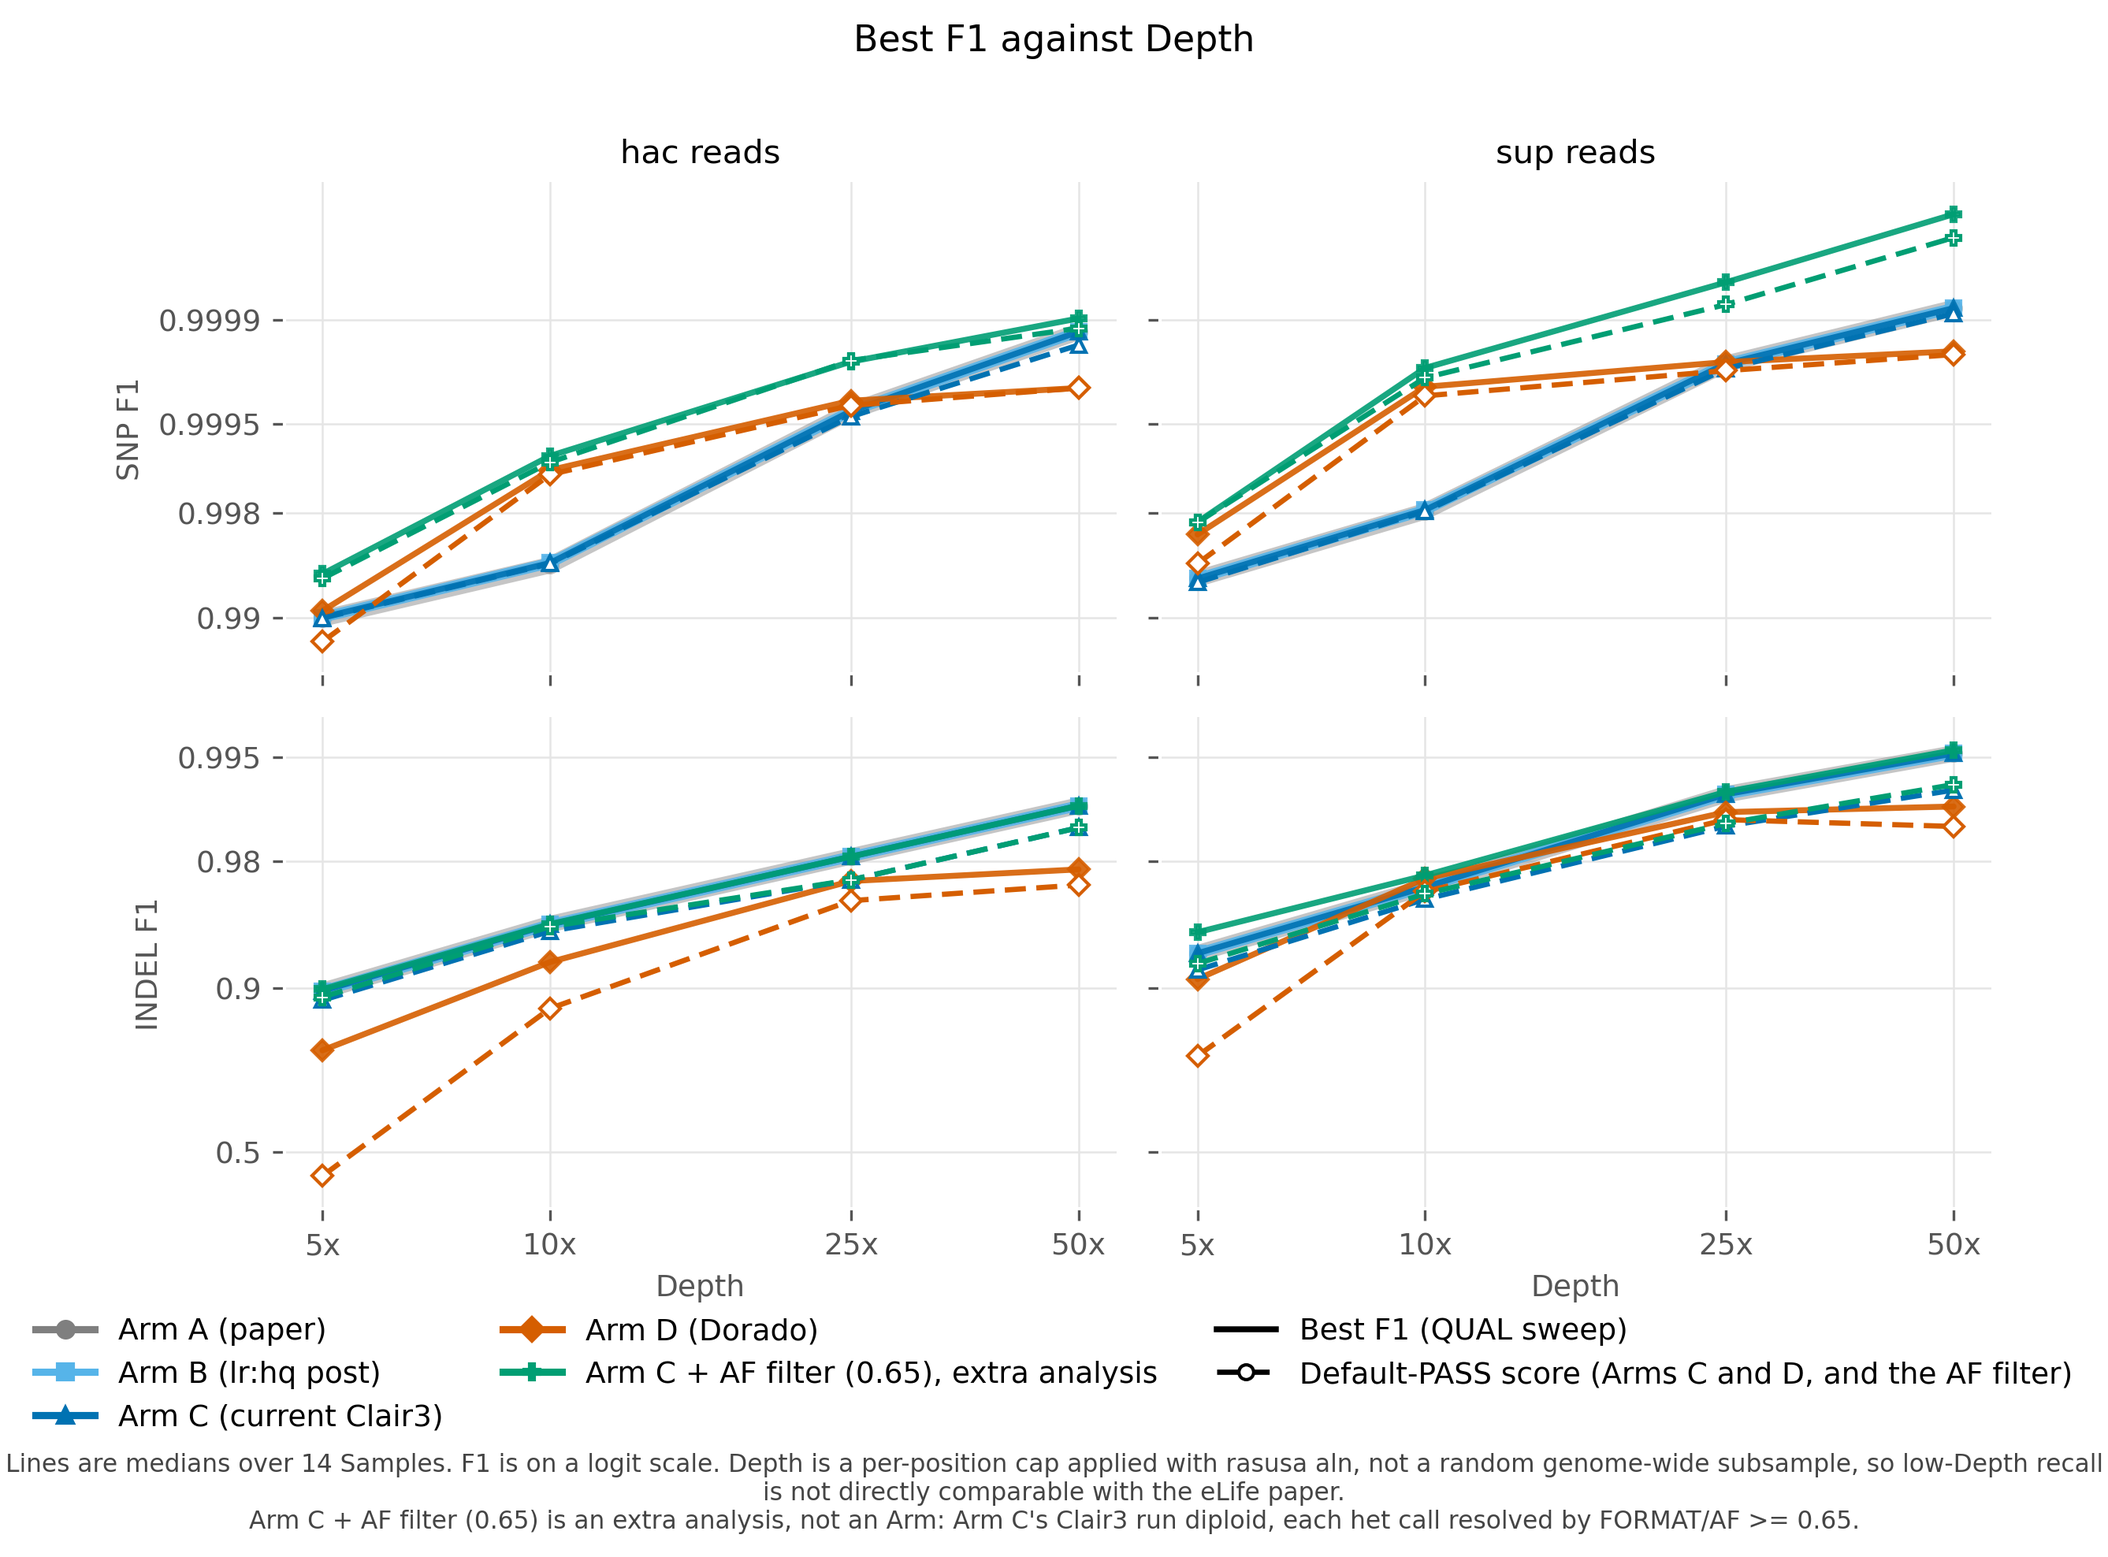
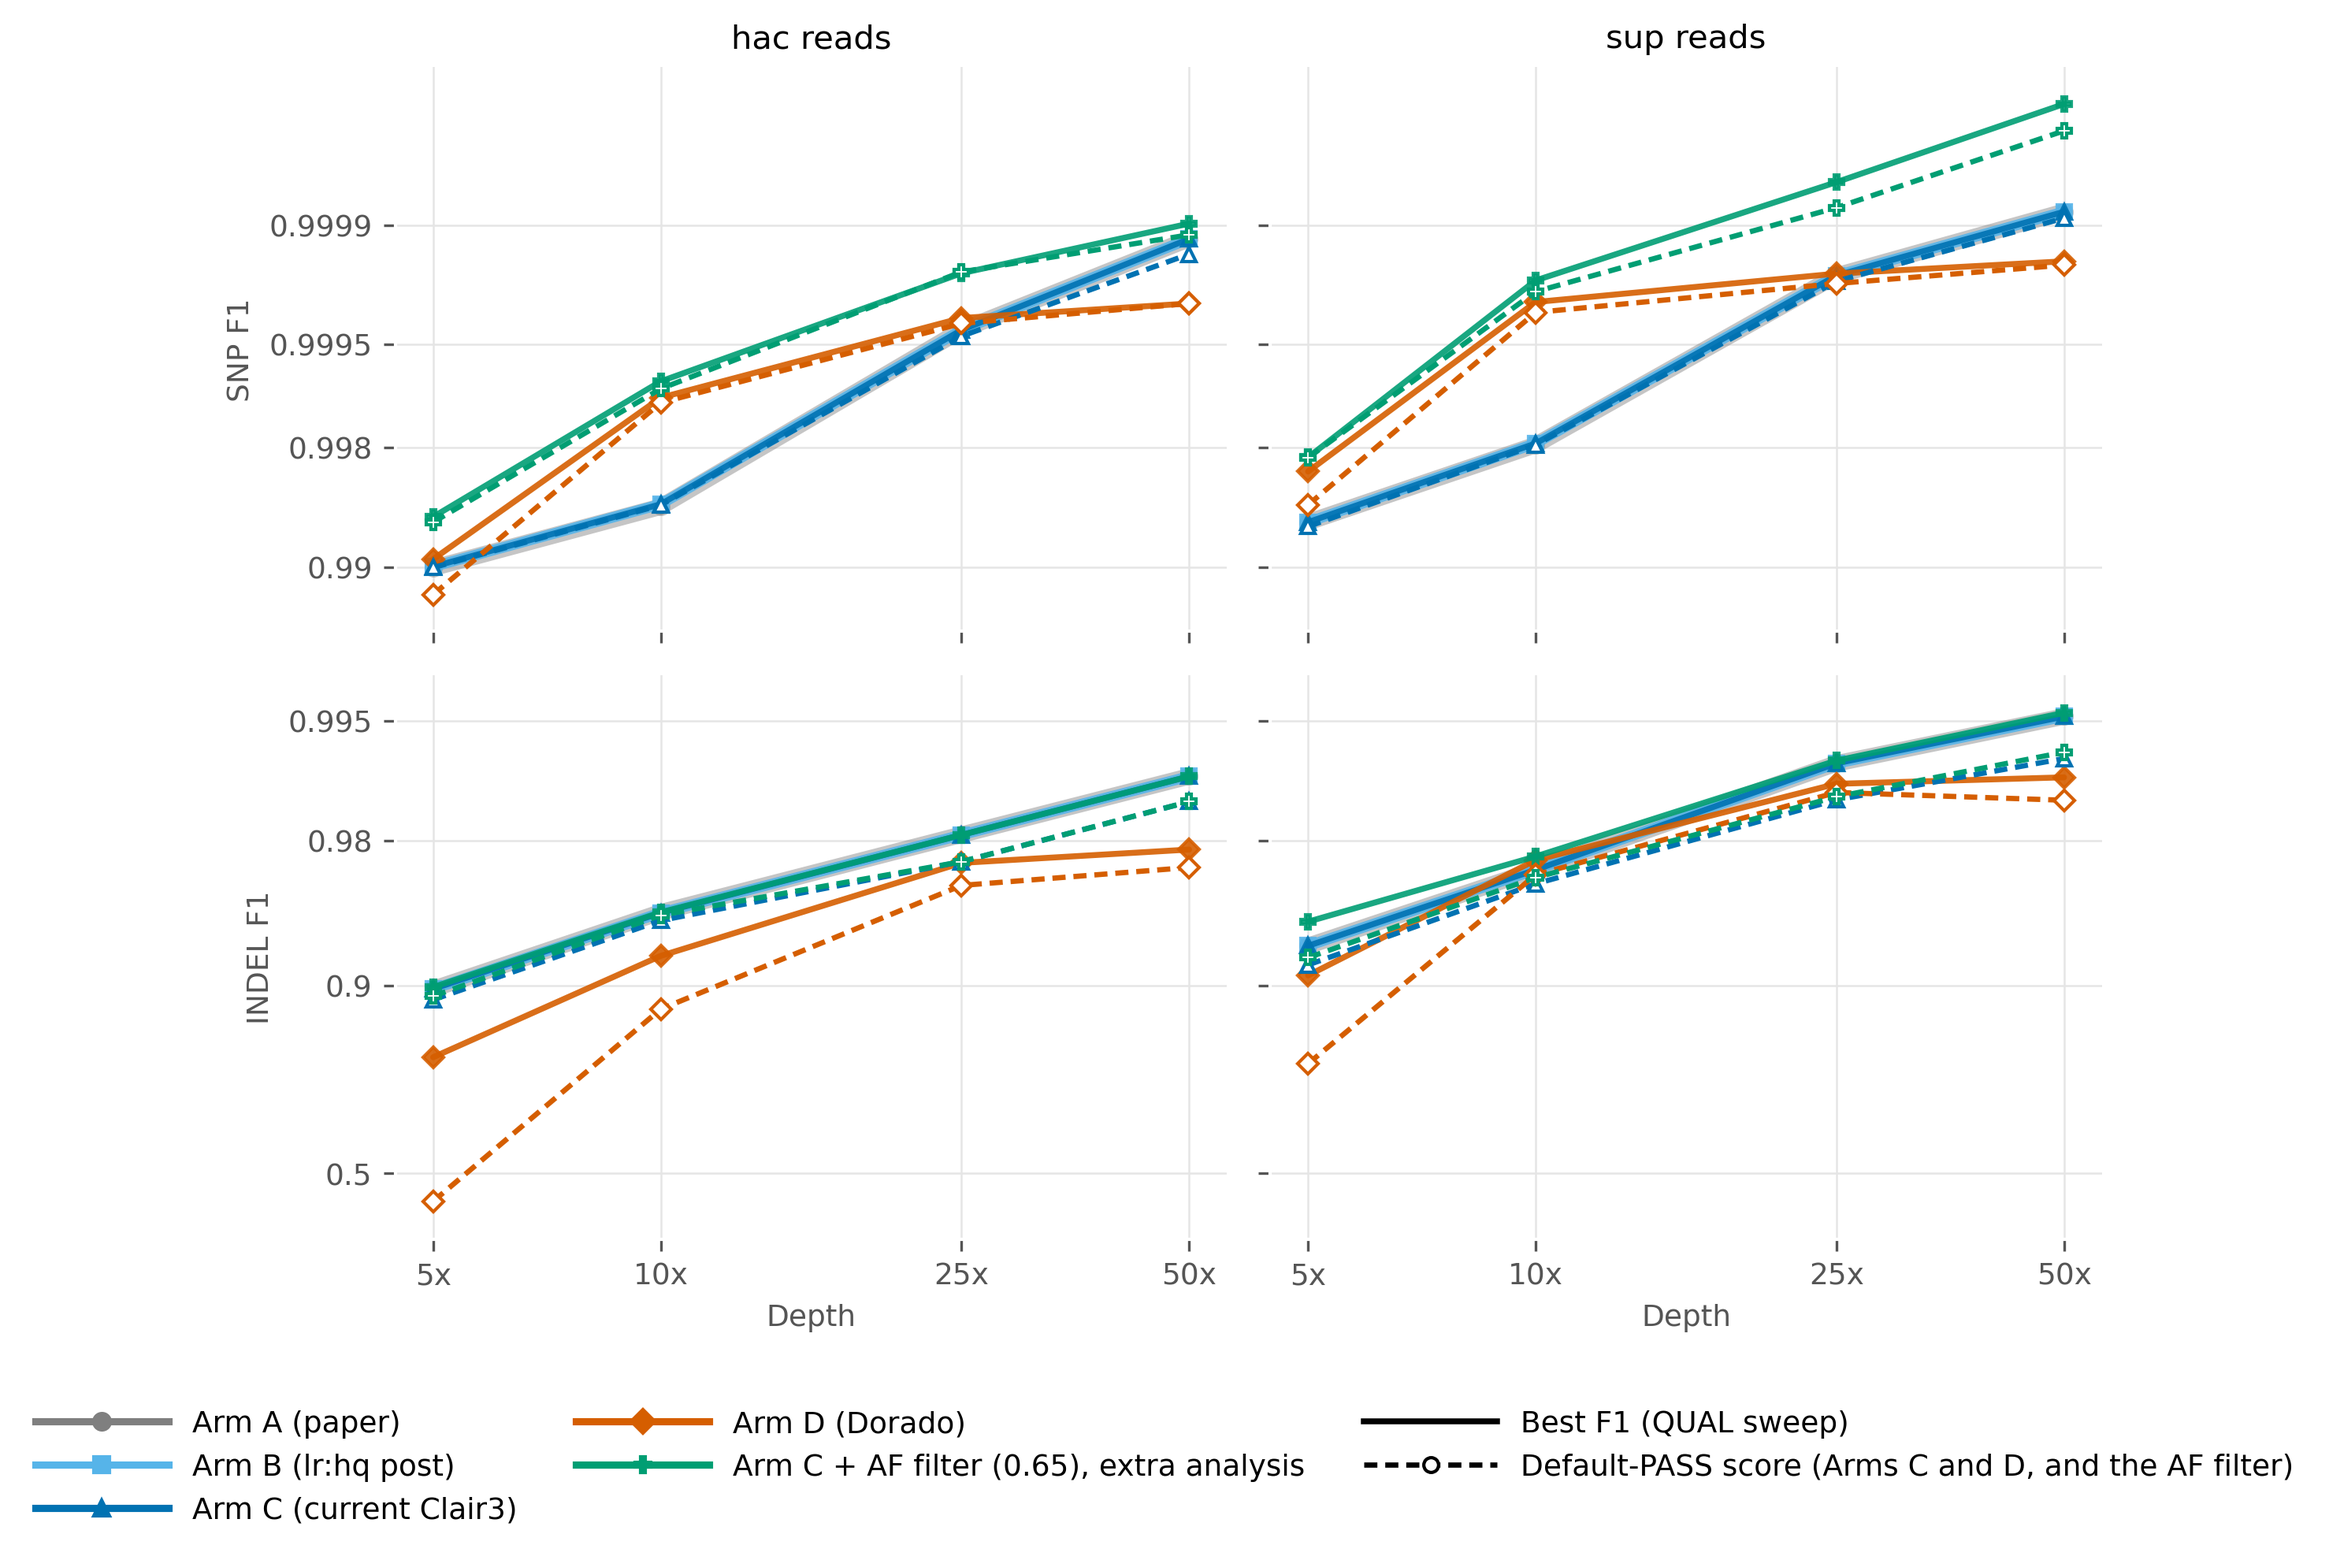
Move figure notes into captions; call the configurations arms
Claude-Session: https://claude.ai/code/session_01WKBa3kL4ttu6J7wjrDe6QN

diff --git a/content/post/dorado-polish-variant-calling/index.md b/content/post/dorado-polish-variant-calling/index.md
@@ -31,7 +31,7 @@ with the latest tools, and added ONT's `dorado polish --bacteria --vcf` alongsid
   0.896 vs 0.796).
 - **Why Clair3 misses SNPs at low depth:** `--haploid_precise` throws away the variants Clair3
   calls as heterozygous. Running Clair3 diploid and keeping a het when its allele frequency is
-  ≥0.65 gives Clair3 the best SNP *and* indel results of any setup I tested.
+  ≥0.65 gives Clair3 the best SNP *and* indel results of anything I tested.
 - **Dorado's default filter is too lenient at low depth.** At 5x, its `PASS` calls include many
   low-quality false positives. Its QUAL score separates them well, though, so filtering on
   QUAL helps a lot.
@@ -71,12 +71,12 @@ filtered to ≥1,000 bp and Q≥10.
 {{< cite "10.21105/joss.03941" >}}, which caps the depth at each position rather than
 picking reads at random. This keeps high-copy plasmids from using up the read budget, and gives
 much more even coverage than the paper's random subsampling. So low-depth recall here is **not**
-directly comparable with the paper's figures. It is the same for every setup in this post,
+directly comparable with the paper's figures. It is the same for every arm in this post,
 though.
 
-**Variant calling.** I compared four setups, each changing one thing from the one before:
+**Variant calling.** I compared four arms, each changing one thing from the one before:
 
-| Setup | Aligner | Caller | Model |
+| Arm | Aligner | Caller | Model |
 | :--- | :--- | :--- | :--- |
 | A (paper) | minimap2 2.26 `map-ont` | Clair3 1.0.5 | v4.3.0 hac/sup |
 | B (`lr:hq` post) | minimap2 2.31 `lr:hq` | Clair3 1.0.5 | v4.3.0 hac/sup |
@@ -97,12 +97,12 @@ between them.
 > `dorado aligner` on one sample: the calls were identical, though the QUAL values of some
 > records differed slightly.
 
-**Evaluation.** Every setup's calls went through the same filtering as the paper, and were
+**Evaluation.** Every arm's calls went through the same filtering as the paper, and were
 scored with vcfdist {{< cite "10.1038/s41467-023-43876-x" >}} v2.6.4. I report two scores:
 
 - **Best F1:** the best F1 over all QUAL thresholds, i.e. what you get if you tune a
   threshold.
-- **Default:** only the calls the caller marks `PASS`, i.e. what you get out of the box.
+- **Default-PASS:** only the calls the caller marks `PASS`, i.e. what you get out of the box.
 
 All numbers are medians over the 14 samples unless stated otherwise.
 
@@ -110,7 +110,7 @@ All numbers are medians over the 14 samples unless stated otherwise.
 
 ### SNPs: Dorado is better at low depth
 
-{{< figure src="best-f1-depth.png" alt="Best F1 against depth for SNPs and indels, hac and sup reads, for each setup." caption="**Figure 1:** Median F1 against depth, on a logit scale to spread out the differences close to 1. Solid lines are Best F1, dashed lines are the default (PASS-only) score. The green line is Clair3 with the allele frequency filter, described below." >}}
+{{< figure src="best-f1-depth.png" alt="Median F1 against depth for SNPs and indels, hac and sup reads, for each arm." caption="**Figure 1:** Median F1 over the 14 samples against depth, for SNPs (top) and indels (bottom) with hac (left) and sup (right) reads. Solid lines are Best F1; dashed lines with open markers are the Default-PASS score, for Arms C and D and the AF filter. F1 is on a logit scale, which spreads out the differences close to 1. Depth is a per-position cap, not a random genome-wide subsample, so low-depth results aren't directly comparable with the paper's. Arm C + AF filter (0.65) is Clair3 run diploid, with each heterozygous call made the alternative allele when its allele frequency is at least 0.65 and the reference otherwise (see below); it is an extra analysis, not one of the four arms." >}}
 
 At 5x and 10x, Dorado calls SNPs better than Clair3 (Figure 1, top row):
 
@@ -171,19 +171,19 @@ so treat these numbers as slightly optimistic.
 
 The dashed lines in Figure 1 show what you get without tuning a threshold. Clair3's `PASS`
 filter costs it very little. Dorado's costs a lot at low depth: at hac 5x its indel F1 falls
-from 0.796 (Best F1) to 0.419 (default).
+from 0.796 (Best F1) to 0.419 (Default-PASS).
 
 The problem isn't that Dorado filters too much, but too little. At hac 5x, Dorado's `PASS`
 calls include 9,540 false positive indels across the samples, against 503 at the best
 threshold. Dorado marks fewer than 4% of its records `LowQual`.
 
-{{< figure src="pr-curves.png" alt="Precision-recall curves over QUAL for each setup at 10x and 50x." caption="**Figure 2:** Precision-recall curves over QUAL at 10x and 50x, with all samples pooled. Markers show the default (PASS-only) score." >}}
+{{< figure src="pr-curves.png" alt="Precision-recall curves over QUAL for each arm at 10x and 50x." caption="**Figure 2:** Precision-recall curves over QUAL thresholds at 10x and 50x, for SNPs (top) and indels (bottom). Each curve pools all 14 samples, summing their true and false calls at each threshold. Markers show each arm's Default-PASS score, pooled the same way. Each panel is zoomed to its own range. Arm C + AF filter (0.65) is Clair3 run diploid, with each heterozygous call made the alternative allele when its allele frequency is at least 0.65 and the reference otherwise (see above); it is an extra analysis, not one of the four arms." >}}
 
 That answers Ryan's question: Dorado's QUAL *does* separate bad calls from good ones, at least
 at low depth (Figure 2). The best threshold depends on depth, though. Here is Dorado's indel F1
 at a few fixed thresholds:
 
-| Reads | Depth | Best F1 | Default | QUAL ≥ 5 | QUAL ≥ 10 |
+| Reads | Depth | Best F1 | Default-PASS | QUAL ≥ 5 | QUAL ≥ 10 |
 | :--- | ---: | ---: | ---: | ---: | ---: |
 | hac | 5x | 0.796 | 0.419 | 0.565 | 0.755 |
 | hac | 10x | 0.927 | 0.872 | 0.910 | 0.923 |
@@ -196,7 +196,7 @@ costs much less (hac 5x: 0.986 vs 0.991).
 
 ### Per sample
 
-{{< figure src="per-sample-best-f1.png" alt="Best F1 per sample at each depth for each setup, with dnd samples shaded." caption="**Figure 3:** Best F1 for every sample, at every depth, on a logit scale. Perfect scores (F1 = 1) are drawn in their own column after the dotted line. The two shaded samples carry *dnd* phosphorothioate systems." >}}
+{{< figure src="per-sample-best-f1.png" alt="Best F1 per sample at each depth for each arm, with dnd samples shaded." caption="**Figure 3:** Best F1 for every sample at every depth, for SNPs and indels with hac and sup reads. F1 is on a logit scale and each panel has its own axis. A perfect score (F1 = 1) has no place on a logit scale, so perfect scores are drawn in their own column after the dotted line. The two shaded samples, *S. enterica* and *V. parahaemolyticus*, carry *dnd* phosphorothioate systems ([dorado#1599](https://github.com/nanoporetech/dorado/issues/1599)). Arm C + AF filter (0.65) is Clair3 run diploid, with each heterozygous call made the alternative allele when its allele frequency is at least 0.65 and the reference otherwise (see above); it is an extra analysis, not one of the four arms." >}}
 
 The pattern holds across samples (Figure 3). At hac 10x, Dorado beats the paper's Clair3
 settings on SNPs for 13 of the 14 samples, and Clair3 beats Dorado on indels for all 14 at hac
@@ -209,7 +209,7 @@ reported for reads basecalled with hac v6.0, and our reads are v4.3.0.
 
 ### Newer Clair3 and `lr:hq` change little
 
-Setups A, B and C are almost indistinguishable in Figure 1. Moving from `map-ont` to `lr:hq`
+Arms A, B and C are almost indistinguishable in Figure 1. Moving from `map-ont` to `lr:hq`
 changed median Best F1 by at most 0.0003. Moving from Clair3 1.0.5 to 2.0.3 with the same (converted)
 models gave identical Best F1 for every sample, depth and read model. Clair3 2.0.3 is faster,
 though.
@@ -271,7 +271,7 @@ Thanks to Ryan Wick, whose polishing posts prompted this, and for reviewing a dr
 The [workflow][workflow], the aggregated tables and the figures are in the NanoVarBench
 repository.
 
-{{< csv-table src="table-s1-per-sample.csv" caption="Table S1: Per-sample results for every setup, depth and read model, with actual depths" >}}
+{{< csv-table src="table-s1-per-sample.csv" caption="Table S1: Per-sample results for every arm, depth and read model, with actual depths" >}}
 
 {{< share-file src="table-s1-per-sample.csv" >}}
 
